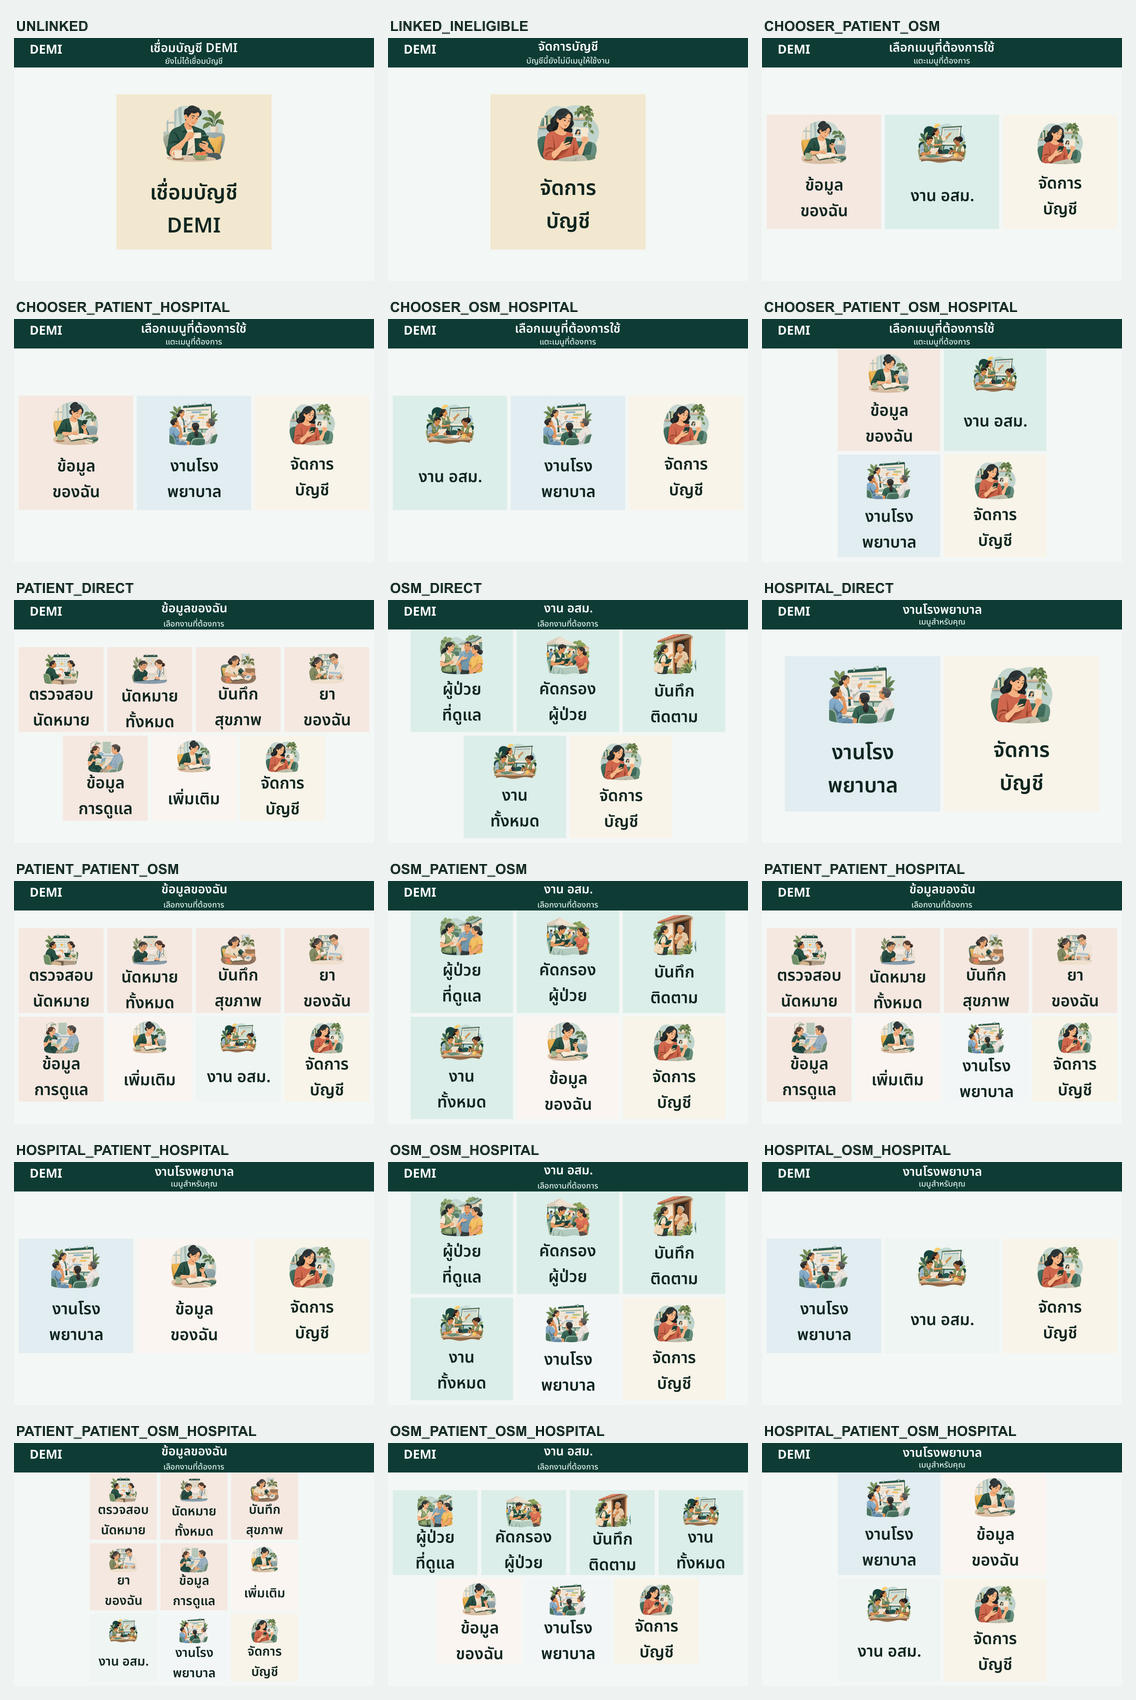
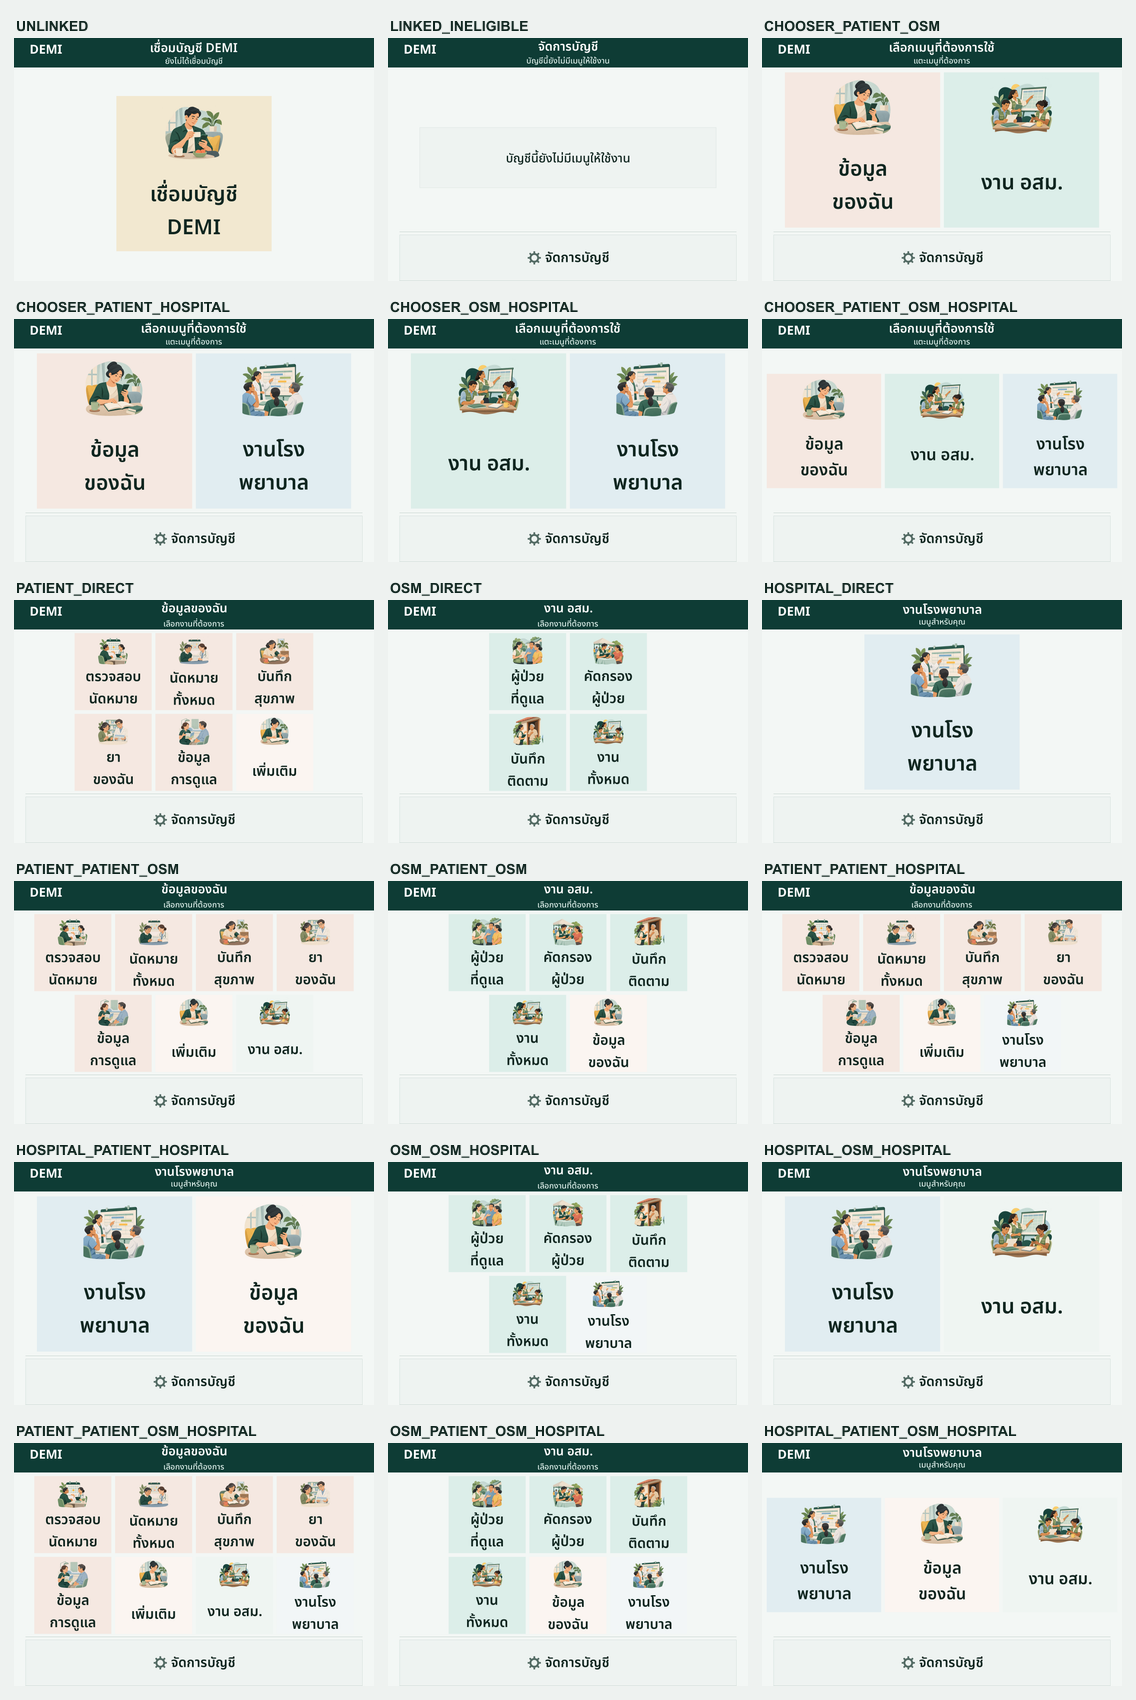
Add mobile Rich Menu footer QA previews

diff --git a/src/modules/line/rich-menu/previews.test.ts b/src/modules/line/rich-menu/previews.test.ts
@@ -1,0 +1,23 @@
+import { readFile } from "node:fs/promises";
+import { dirname, join } from "node:path";
+import { fileURLToPath } from "node:url";
+import sharp from "sharp";
+import { describe, expect, it } from "vitest";
+
+const previewDirectory = join(dirname(fileURLToPath(import.meta.url)), "../../../../docs/line/rich-menu-previews");
+const expectedContactSheets = [
+  { displayWidth: 360, width: 1136, height: 1700 },
+  { displayWidth: 390, width: 1226, height: 1820 },
+  { displayWidth: 430, width: 1346, height: 1982 },
+] as const;
+
+describe("DEMI LINE Rich Menu mobile previews", () => {
+  it.each(expectedContactSheets)("ships a complete contact sheet at $displayWidth px", async ({ displayWidth, width, height }) => {
+    const image = await readFile(join(previewDirectory, `rich-menu-contact-${displayWidth}.png`));
+    const metadata = await sharp(image).metadata();
+
+    expect(metadata.format).toBe("png");
+    expect(metadata.width).toBe(width);
+    expect(metadata.height).toBe(height);
+  });
+});

diff --git a/docs/line/rounded-square-rich-menu.md b/docs/line/rounded-square-rich-menu.md
@@ -1,6 +1,6 @@
-# DEMI LINE Rich Menu: Modern Healthcare Editorial Illustration
+# DEMI LINE Rich Menu: Healthcare Illustration Grid and Utility Footer
 
-ปรับ visual asset ของ LINE Rich Menu ครบ 18 variants ให้ใช้ฉากภาพประกอบสุขภาพที่สื่อกิจกรรมจริง โดยคง catalog, alias, action, ลำดับ, ปลายทาง และ hit area เดิม ภาพทั้งหมดเรนเดอร์ลง canvas 2500 × 1686 พิกเซล
+Rich Menu ทั้ง 18 variants ใช้ภาพประกอบ editorial ที่สื่อกิจกรรมสุขภาพจริงในพื้นที่หลัก และแยก “จัดการบัญชี” เป็น utility footer ด้านล่าง ขนาด canvas 2500 × 1686 พิกเซล การจัดวางภาพและ LINE tappable areas ใช้ geometry จาก layout definition เดียวกัน
 
 ## ภาพตัวอย่างบนมือถือ
 
@@ -14,47 +14,46 @@
 
 [ตัวอย่างตัวอักษรไทย](rich-menu-previews/thai-glyph-samples.png) ใช้ตรวจการจัดรูปอักษรจาก Noto Sans Thai ด้วย Pango และ HarfBuzz
 
-## ระบบภาพประกอบ
+## ระบบภาพประกอบและลำดับชั้น
 
 ใช้ภาพประกอบ editorial แบบ cut-paper และ gouache ที่มีมิติอ่อน ๆ รูปทรงอ่านง่าย และใช้ผู้ใหญ่กำลังทำกิจกรรมสุขภาพเป็นจุดเด่น ภาพไม่มีข้อความหรือชื่อเมนูในตัวอักษรไทย renderer เป็นผู้วาง label แยก จึงคงการจัดบรรทัดและการสะกดจาก catalog ได้แน่นอน
 
-ชุดภาพประกอบ 13 ฉากประกอบด้วย:
+การกระทำหลักคงภาพประกอบเดิมครบทุก action: นัดหมายและประวัตินัดหมาย, บันทึกสุขภาพ, ยา, ข้อมูลการดูแล, พื้นที่ทำงานผู้ป่วย, งานชุมชนและคัดกรองของ อสม., การประสานงานโรงพยาบาล และการเชื่อมบัญชี ภาพต้นฉบับอยู่ใน [scripts/illustrations/line-rich-menu](../../scripts/illustrations/line-rich-menu); renderer ใช้ Sharp ครอปฉากและประกอบภาพในเครื่อง โดยไม่ดาวน์โหลดหรือเรียก image-generation service ระหว่างสร้างเมนู
 
-- นัดหมายกับบุคลากรสุขภาพ และทบทวนประวัตินัดหมาย
-- บันทึกค่าวัดสุขภาพ และทบทวนยากับเภสัชกร
-- รับข้อมูลการดูแลจากพยาบาล
-- ผู้ป่วยใช้พื้นที่สุขภาพส่วนตัว
-- อสม. คัดกรอง วางแผนติดตาม และเยี่ยมบ้าน
-- ทีมโรงพยาบาลประสานงานบริการ
-- เชื่อมบัญชี และจัดการข้อมูลบัญชี
+ฉากจัดการบัญชีเดิมยังอยู่ใน identity atlas ที่ใช้ร่วมกับฉากเชื่อมบัญชีและ workspace อื่น แต่ไม่มี illustration mapping หรือถูก render แล้ว จึงไม่ต้องสร้าง artwork ที่ไม่เกี่ยวข้องขึ้นใหม่
 
-ภาพต้นฉบับที่สร้างด้วย image generation อยู่ใน [scripts/illustrations/line-rich-menu](../../scripts/illustrations/line-rich-menu): 3 atlas และ 1 ฉากเดี่ยวสำหรับการประสานงานของทีม อสม. renderer ใช้ Sharp ครอปฉากจาก atlas และประกอบภาพในเครื่องระหว่าง build ไม่มีการเรียก image-generation service หรือดาวน์โหลด artwork ระหว่างสร้างเมนู
+เฉพาะ action intent `MANAGE_ACCOUNT` แสดงใน utility footer ด้านล่างเป็นแถบแนวนอนพื้นเขียวเทาหม่น เส้นขอบบาง ไอคอนเฟือง SVG แบบเรขาคณิต และข้อความ “จัดการบัญชี” บรรทัดเดียว ไม่มีภาพประกอบบุคคลใน footer แถบสูง 320 source pixels คิดเป็นประมาณ 46 px ที่ความกว้างแสดง 360 px เว้นระยะจากกริดหลัก 40 source pixels และไม่ใช้เงาหรือ gradient
 
-สีหลักคงตาม DEMI: brand deep `#0E3C35`, canvas `#F3F7F5`, ink `#102620`, white `#FFFFFF` และ brand soft `#DCEEE9` เพิ่มสีรองอย่างจำกัดเพื่อช่วยแยกบริบท: coral อ่อนสำหรับผู้ป่วย, sage/mint สำหรับ อสม., sky blue สำหรับโรงพยาบาล และ warm yellow สำหรับบัญชี
+กรณี `LINKED_INELIGIBLE` ใช้ข้อความสถานะจาก catalog ในแผงข้อมูลแบบไม่โต้ตอบที่พื้นที่หลัก และมี action จัดการบัญชีเพียงรายการเดียวใน footer ส่วน `UNLINKED` คง action เชื่อมบัญชี DEMI เป็นภาพหลักและไม่มี footer ใหม่
 
-แถบหัวเมนูใช้ brand deep กับข้อความขาว พื้นที่ action เป็นสี่เหลี่ยมแบนสีอ่อนที่ขอบตรงกับพื้นที่ LINE โดยเว้น gutter ตาม layout ไม่มีกรอบมุมโค้งหรือไอคอนเส้นเป็นภาพหลัก การ์ดที่มี action หลายรายการใช้ภาพประกอบขนาดและสัดส่วนเดียวกัน ส่วน role switch ใช้ฉากที่สื่อบทบาทผู้ป่วย อสม. หรือโรงพยาบาลตามปลายทาง
+สีหลักคงตาม DEMI: brand deep `#0E3C35`, canvas `#F3F7F5`, ink `#102620`, white `#FFFFFF` และ brand soft `#DCEEE9` เพิ่มสีรองอย่างจำกัดเพื่อแยกบริบท: coral อ่อนสำหรับผู้ป่วย, sage/mint สำหรับ อสม., sky blue สำหรับโรงพยาบาล และ warm yellow สำหรับการเชื่อมบัญชี
 
 ## Action และตำแหน่งกด
 
-`src/modules/line/rich-menu/catalog.ts` ยังคงเป็นแหล่งข้อมูล action และ label ส่วน `getLineMenuAreaBounds()` ใน [layout.ts](../../src/modules/line/rich-menu/layout.ts) เป็นแหล่งเดียวของตำแหน่งภาพกับ LINE tappable areas ภาพพื้นของแต่ละ action วางอยู่ในขอบเขตนั้นโดยไม่ขยาย hit area หรือสร้างพื้นที่คลิกเพิ่ม
+`src/modules/line/rich-menu/catalog.ts` ยังคงเป็น source of truth สำหรับ menu keys, aliases, labels, action ordering และ semantics ส่วน [layout.ts](../../src/modules/line/rich-menu/layout.ts) ใน `getLineMenuLayout()` แบ่ง action areas เป็น primary grid กับ utility footer โดยพิจารณา intent `MANAGE_ACCOUNT` ไม่เทียบ label ฟังก์ชัน `getLineMenuAreaBounds()` เป็น compatibility projection ของ action areas เดียวกันตามลำดับ catalog
 
-คงการจัดวางเดิมตามจำนวน action:
+Manifest renderer และ LINE payload builder อ่าน layout definition นี้ร่วมกัน จึงไม่มี coordinate calculation แยกระหว่างภาพกับ tappable areas พื้นภาพของ action หลักอยู่ใน bounds ของ action นั้น ส่วน footer มี LINE URI area ของตัวเอง สถานะใน `LINKED_INELIGIBLE` ไม่มี tappable area เพิ่ม
 
-| จำนวน action | คอลัมน์ × แถว |
+Footer ใช้ bounds `{ x: 80, y: 1366, width: 2340, height: 320 }` บน canvas 2500 × 1686 ส่วนกริดหลักคำนวณจากจำนวน action ที่ไม่ใช่ `MANAGE_ACCOUNT`:
+
+| Primary actions | คอลัมน์ × แถว |
 | --- | --- |
-| 1–3 | จำนวนคอลัมน์เท่ากับ action, 1 แถว |
+| 1–3 | จำนวนคอลัมน์เท่ากับจำนวน action |
 | 4 | 2 × 2 |
 | 5–6 | 3 × 2 |
 | 7–8 | 4 × 2 |
 | 9 | 3 × 3 |
 
+การจัดวางบน menu ที่ไม่มี footer ใช้พื้นที่หลักได้เต็มความสูงที่เหลือ เช่น `UNLINKED` ส่วน `LINKED_INELIGIBLE` มี status region ที่วาดภาพได้แต่ไม่ส่งไปเป็น LINE action area
+
 LINE รับ Rich Menu image แบบ JPEG หรือ PNG, กว้าง 800–2500 px, สูงอย่างน้อย 250 px, aspect ratio อย่างน้อย 1.45 และขนาดไม่เกิน 1 MB ตาม [Messaging API reference](https://developers.line.biz/en/reference/messaging-api/nojs/). Canvas 2500 × 1686 มี aspect ratio ประมาณ 1.48; asset generator ตรวจ PNG, มิติ และขนาดไฟล์ก่อนเขียนทุกครั้ง
 
 ## ไฟล์และการสร้างซ้ำ
 
-- [line-rich-menu-illustrations.ts](../../scripts/line-rich-menu-illustrations.ts): จับคู่ action กับฉากและสีตามบทบาท พร้อมอ่าน artwork ต้นฉบับในเครื่อง
-- [line-rich-menu-asset-manifest.ts](../../scripts/line-rich-menu-asset-manifest.ts): รวม catalog, visual assignment และขอบเขตจาก layout
-- [line-rich-menu-renderer.ts](../../scripts/line-rich-menu-renderer.ts): ประกอบภาพ ฉาก label ภาษาไทย และส่วนหัว
+- [line-rich-menu-illustrations.ts](../../scripts/line-rich-menu-illustrations.ts): จับคู่ action หลักกับภาพประกอบและโทนตามบทบาท; `MANAGE_ACCOUNT` ไม่มี illustration mapping
+- [layout.ts](../../src/modules/line/rich-menu/layout.ts): คำนวณกริดหลัก, footer hit area และ status region แบบ non-interactive
+- [line-rich-menu-asset-manifest.ts](../../scripts/line-rich-menu-asset-manifest.ts): รวม catalog, visual assignment และ bounds จาก layout
+- [line-rich-menu-renderer.ts](../../scripts/line-rich-menu-renderer.ts): ประกอบฉาก, label ภาษาไทย, utility footer และส่วนหัว
 - [generate-line-rich-menu-assets.ts](../../scripts/generate-line-rich-menu-assets.ts): สร้างหรือเช็ก PNG ทั้ง 18 variants
 - [generate-line-rich-menu-previews.ts](../../scripts/generate-line-rich-menu-previews.ts): สร้าง contact sheet 360, 390, 430 px และตัวอย่าง glyph ไทย
 - [public/line/rich-menus](../../public/line/rich-menus): PNG ที่ LINE ใช้
@@ -66,6 +65,4 @@ npm run line:rich-menu:assets -- --check
 npm run line:rich-menu:previews
 ```
 
-`--check` สร้างภาพในหน่วยความจำแล้วเทียบ byte กับไฟล์ที่บันทึกไว้ จึงตรวจความทำซ้ำได้โดยไม่แก้ asset
-
-ไม่มีการแก้ `catalog.ts`, `layout.ts`, account linking, role eligibility, authorization หรือ LINE webhook และไม่มีการ provision Rich Menu หรือแก้ provider state จากงานนี้
+การเปลี่ยนครั้งนี้คง catalog, alias, action identity/order/type/destination, workspace switching, account linking, role eligibility, authorization และ LINE webhook behavior ไว้ ไม่มีการเรียก LINE provider หรือ provision Rich Menu การเผยแพร่ภาพและ tappable areas ที่เปลี่ยนต้องสร้าง Rich Menu provider resources ชุดใหม่ในขั้นตอน rollout ที่ได้รับอนุมัติแยกต่างหาก
